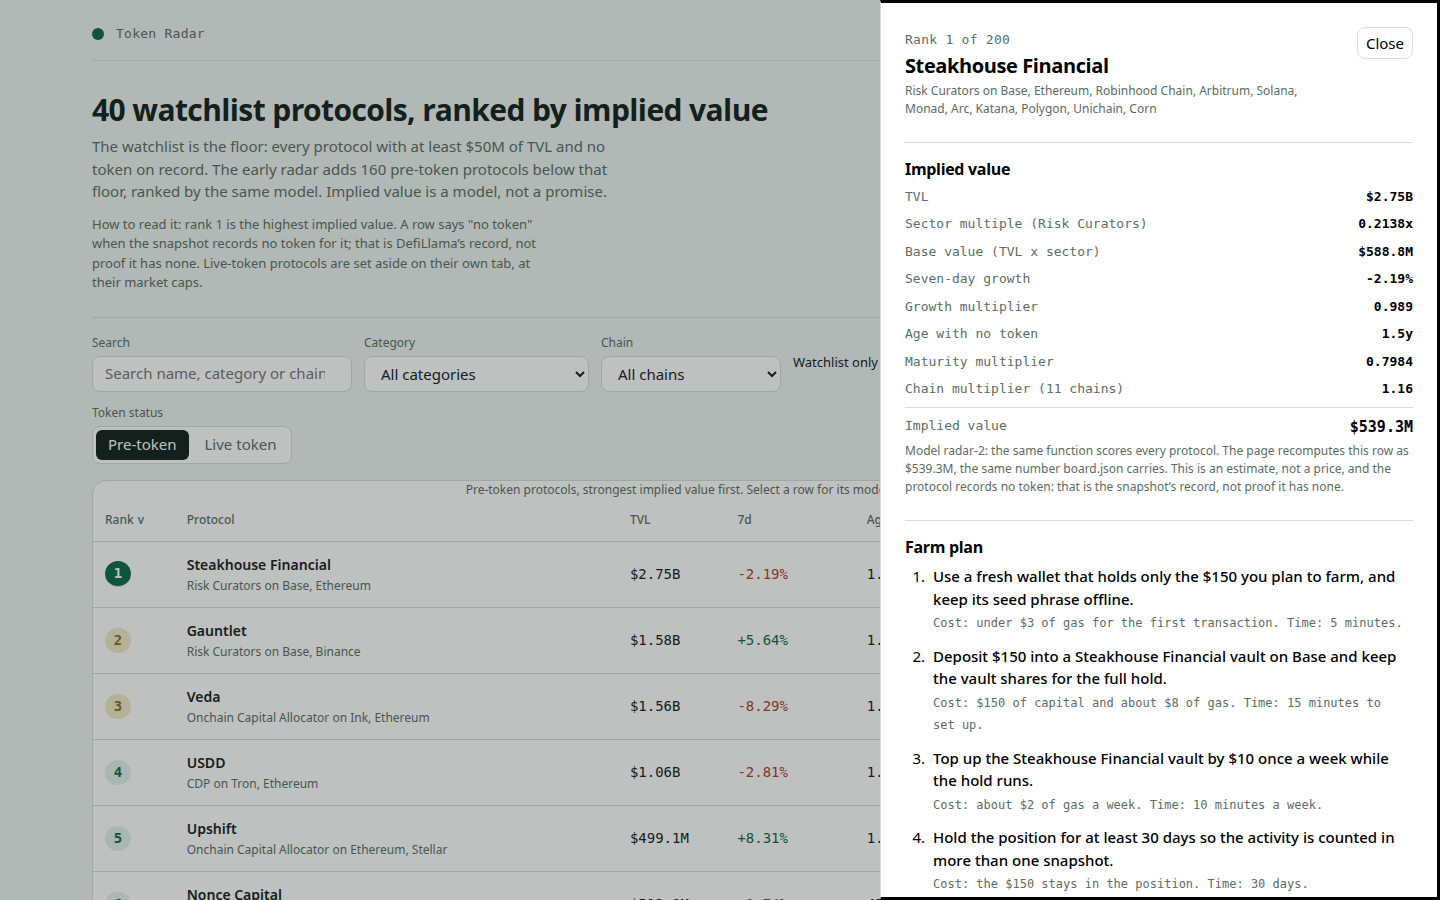
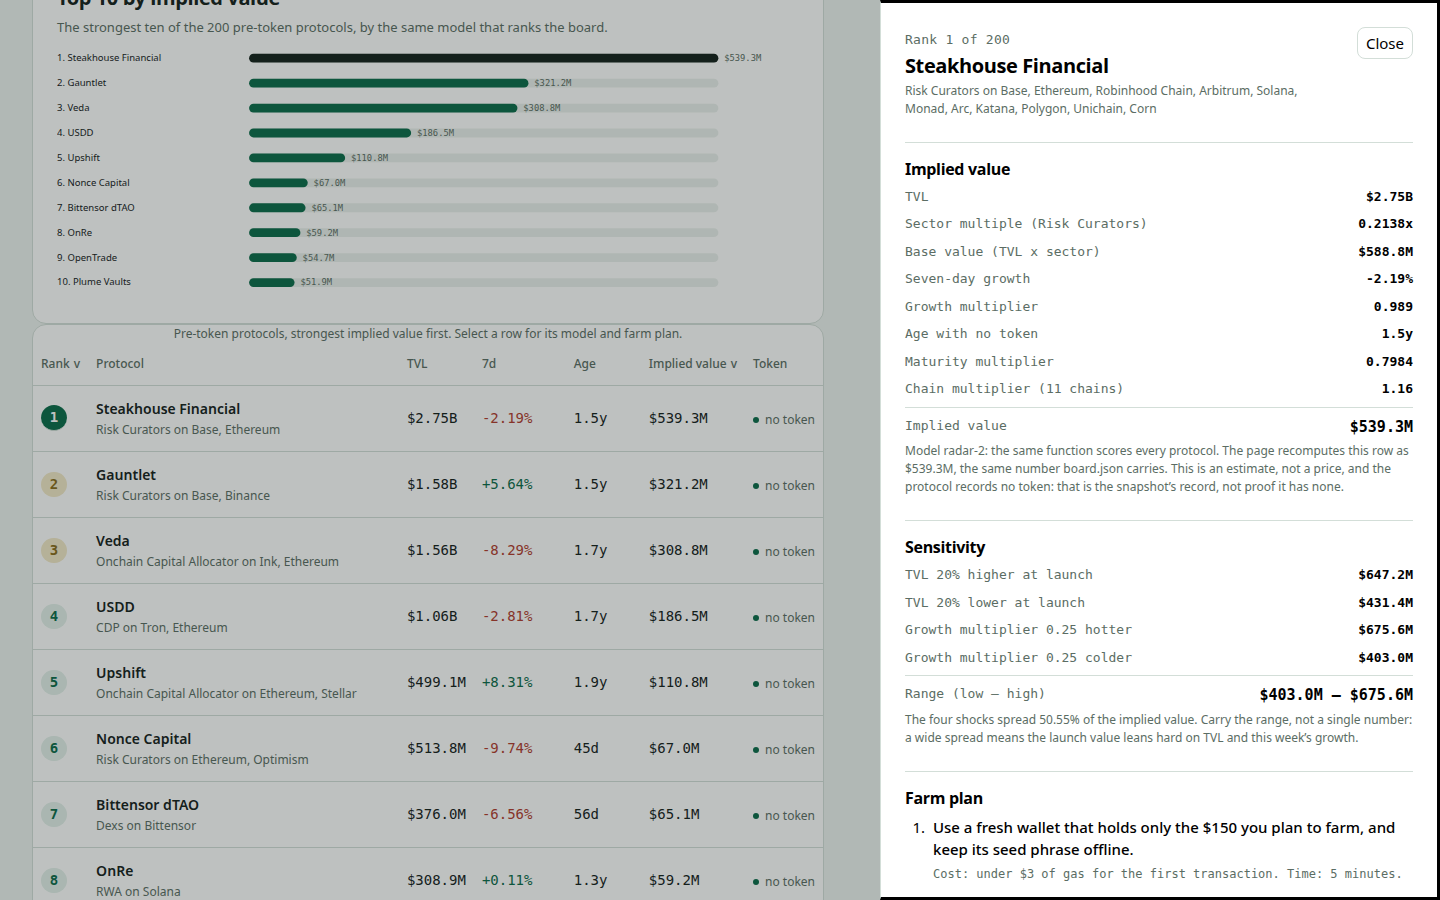
fix: watchlist checkbox, sensitivity in dashboard, top-10 chart + drawer layout
- Checkbox 'Watchlist only' no longer stretched by the text-input sizing
  rule (was 260x36px, detached from its label); now a 16px box beside it.
- data.js now carries each row's launchSensitivity (was board.json-only);
  the detail drawer shows a Sensitivity section: TVL +/-20% and growth
  +/-0.25 shocks plus the low-high range and spread.
- Top-10 by implied value as a hand-built inline SVG chart (no library,
  no network) between the filters and the table.
- While the detail drawer is open on wide screens the page shifts left
  by the drawer's width and the table compacts (decorative bars hide,
  cells tighten) so no column is covered; Close and Esc still close it.
- No model change: all 200 implied values, ranks and sensitivity figures
  byte-identical to the submitted board; generator output deterministic
  across runs; 0 console errors; screenshots re-rendered at 1440x900.

diff --git a/dashboard/app.js b/dashboard/app.js
@@ -1,7 +1,8 @@
 // Token Radar's dashboard, radar-2. It reads window.RADAR (written beside dashboard/ by
-// main.ts) and renders the ranked board, a filterable table, a per-protocol detail drawer with
-// the model's own inputs and the protocol's farm plan, and the sector benchmarks the model was
-// priced from. No network: every byte it shows is in data.js, and it fetches nothing.
+// main.ts) and renders the ranked board, a top-10 chart, a filterable table, a per-protocol
+// detail drawer with the model's own inputs, its launch-value sensitivity and the protocol's
+// farm plan, and the sector benchmarks the model was priced from. No network: every byte it
+// shows is in data.js, and it fetches nothing.
 (function () {
   'use strict';
 
@@ -243,6 +244,37 @@
     );
   }
 
+  // The top-10 chart: one inline SVG, built by hand from the board's own top ten by implied
+  // value. No library, no network. Names are escaped before they enter the markup.
+  function esc(s) {
+    return String(s).replace(/&/g, '&amp;').replace(/</g, '&lt;').replace(/>/g, '&gt;').replace(/"/g, '&quot;');
+  }
+  function topChart() {
+    var top = DATA.rows.slice(0, 10);
+    if (top.length === 0) return null;
+    var max = top[0].implied_value_usd || 1;
+    var barX = 262, barMax = 640, rowH = 34, padTop = 6;
+    var width = barX + barMax + 110;
+    var height = padTop + top.length * rowH;
+    var parts = ['<svg viewBox="0 0 ' + width + ' ' + height + '" role="img" aria-label="Top 10 protocols by implied value">'];
+    top.forEach(function (r) {
+      var i = r.rank - 1;
+      var y = padTop + i * rowH;
+      var w = Math.max(4, Math.round((r.implied_value_usd / max) * barMax));
+      var name = r.name.length > 30 ? r.name.slice(0, 29) + '…' : r.name;
+      parts.push('<text x="0" y="' + (y + 16) + '">' + r.rank + '. ' + esc(name) + '</text>');
+      parts.push('<rect class="track" x="' + barX + '" y="' + (y + 6) + '" width="' + barMax + '" height="12" rx="6"/>');
+      parts.push('<rect class="chart-bar' + (r.rank === 1 ? ' first' : '') + '" x="' + barX + '" y="' + (y + 6) + '" width="' + w + '" height="12" rx="6"/>');
+      parts.push('<text class="num" x="' + (barX + w + 8) + '" y="' + (y + 16) + '">' + fmtUsd(r.implied_value_usd) + '</text>');
+    });
+    parts.push('</svg>');
+    return el('section', { class: 'panel chart' },
+      el('h2', { text: 'Top 10 by implied value' }),
+      el('p', { text: 'The strongest ten of the ' + DATA.board_size + ' pre-token protocols, by the same model that ranks the board.' }),
+      el('div', { html: parts.join('') })
+    );
+  }
+
   function sortHeader(key, label) {
     return el('th', { scope: 'col' },
       el('button', { type: 'button', onclick: function () { if (state.sort === key) state.dir = -state.dir; else { state.sort = key; state.dir = -1; } render(); } },
@@ -366,7 +398,9 @@
   }
 
   var dialog = el('dialog', { class: 'detail', id: 'detail', 'aria-labelledby': 'detail-title' });
-  dialog.addEventListener('close', function () { state.selected = null; writeHash(); });
+  // The drawer shifts the page left while it is open (see app.css: body.detail-open),
+  // so it never covers the table; the class comes off the moment the drawer closes.
+  dialog.addEventListener('close', function () { state.selected = null; document.body.classList.remove('detail-open'); writeHash(); });
 
   function openDetail(slug) {
     var row = DATA.rows.filter(function (r) { return r.slug === slug; })[0];
@@ -399,6 +433,26 @@
       ),
       el('p', { class: 'sub', text: 'Model ' + DATA.model_version + ': the same function scores every protocol. The page recomputes this row as ' + fmtUsd(impliedOf(row, DATA.model)) + (impliedOf(row, DATA.model) === row.implied_value_usd ? ', the same number board.json carries.' : ', which differs from the board: the data would be stale.') + ' This is an estimate, not a price, and the protocol records no token: that is the snapshot\u2019s record, not proof it has none.' })
     ));
+    // Sensitivity: the implied value under a TVL shock of 20% either way and a growth-
+    // multiplier shock of 0.25 either way, sector, maturity and chain multipliers held.
+    // A wide range means the launch value is fragile; a narrow one means it barely moves.
+    // Guarded: a data.js written before sensitivity existed simply shows no section.
+    if (row.sensitivity) {
+      var s = row.sensitivity;
+      var low = Math.min(s.tvlShockUp, s.tvlShockDown, s.growthShockUp, s.growthShockDown);
+      var high = Math.max(s.tvlShockUp, s.tvlShockDown, s.growthShockUp, s.growthShockDown);
+      dialog.appendChild(el('section', { class: 'detail-section' },
+        el('h3', { text: 'Sensitivity' }),
+        el('div', { class: 'equation' },
+          el('div', null, el('span', { text: 'TVL 20% higher at launch' }), el('b', { class: 'num', text: fmtUsd(s.tvlShockUp) })),
+          el('div', null, el('span', { text: 'TVL 20% lower at launch' }), el('b', { class: 'num', text: fmtUsd(s.tvlShockDown) })),
+          el('div', null, el('span', { text: 'Growth multiplier 0.25 hotter' }), el('b', { class: 'num', text: fmtUsd(s.growthShockUp) })),
+          el('div', null, el('span', { text: 'Growth multiplier 0.25 colder' }), el('b', { class: 'num', text: fmtUsd(s.growthShockDown) })),
+          el('div', { class: 'total' }, el('span', { text: 'Range (low – high)' }), el('b', { class: 'num', text: fmtUsd(low) + ' – ' + fmtUsd(high) }))
+        ),
+        el('p', { class: 'sub', text: 'The four shocks spread ' + s.sensitivitySpreadPct.toFixed(2) + '% of the implied value. Carry the range, not a single number: a wide spread means the launch value leans hard on TVL and this week\u2019s growth.' })
+      ));
+    }
     dialog.appendChild(el('section', { class: 'detail-section' },
       el('h3', { text: 'Farm plan' }),
       el('ol', { class: 'steps' }, steps.map(function (s) {
@@ -413,6 +467,7 @@
     } else {
       dialog.setAttribute('open', '');
     }
+    document.body.classList.add('detail-open');
   }
 
   function render() {
@@ -421,6 +476,7 @@
     shell.appendChild(header());
     shell.appendChild(lede());
     shell.appendChild(controls());
+    if (state.tab === 'pre-token') shell.appendChild(topChart());
     shell.appendChild(state.tab === 'pre-token' ? boardTable() : liveTable());
     if (state.tab === 'pre-token') shell.appendChild(modelPanel());
     app.appendChild(shell);

diff --git a/dashboard/app.css b/dashboard/app.css
@@ -69,11 +69,17 @@ a { color: var(--accent); }
 .controls { display: flex; flex-wrap: wrap; align-items: end; gap: var(--step-3); padding: var(--step-4) 0; border-top: 1px solid var(--border); }
 .field { display: grid; gap: var(--step-1); }
 .field label { color: var(--muted); font-size: 12px; }
-.field input, .field select {
+.field input[type="search"], .field select {
   min-height: 36px; padding: 0 var(--step-3); border: 1px solid var(--border); border-radius: var(--radius-control);
   background: var(--surface); min-width: 180px;
 }
-.field input { min-width: 260px; }
+.field input[type="search"] { min-width: 260px; }
+/* The watchlist checkbox is a control of its own size: the text-input sizing above
+   must never stretch it into a wide empty box detached from its label. */
+.field input[type="checkbox"] {
+  width: 16px; height: 16px; min-width: 0; min-height: 0; padding: 0;
+  flex: none; margin: 0; accent-color: var(--accent);
+}
 .field.check { align-content: end; padding-bottom: 8px; }
 .field.check label { display: flex; align-items: center; gap: 6px; color: var(--ink); font-size: 13px; }
 .tabs { display: flex; gap: var(--step-1); padding: 3px; border: 1px solid var(--border); border-radius: var(--radius-control); background: var(--surface); }
@@ -100,14 +106,40 @@ tbody tr[data-selected="true"] { background: var(--accent-soft); }
 .rank-badge { display: inline-block; min-width: 26px; text-align: center; padding: 2px 6px; border-radius: 999px; background: var(--accent-soft); color: var(--accent); font-weight: 600; }
 .rank-badge.top { background: var(--accent); color: var(--surface); }
 .rank-badge.top3 { background: #f3e9c8; color: var(--gold); }
-.bar { width: 120px; height: 6px; border-radius: 3px; background: var(--border); overflow: hidden; }
-.bar i { display: block; height: 100%; background: var(--accent); }
+/* The table's implied-value bar: scoped under .implied so it never restyles an SVG rect
+   that happens to share the name. */
+.implied .bar { width: 120px; height: 6px; border-radius: 3px; background: var(--border); overflow: hidden; }
+.implied .bar i { display: block; height: 100%; background: var(--accent); }
 .implied { display: flex; align-items: center; gap: var(--step-2); }
 .status { display: inline-flex; align-items: center; gap: 6px; color: var(--muted); font-size: 12px; white-space: nowrap; }
 .status::before { content: ""; width: 6px; height: 6px; border-radius: 50%; background: var(--accent); }
 .status.live::before { background: var(--gold); }
 
 .model { margin-top: var(--step-4); padding: var(--step-5); display: grid; gap: var(--step-3); }
+
+/* Top-10 chart: a hand-built SVG, no library and no network. The panel sits between the
+   filters and the table; its bars are the board's own top ten by implied value. */
+.chart { margin-top: var(--step-4); padding: var(--step-5); display: grid; gap: var(--step-2); }
+.chart p { color: var(--muted); font-size: 13px; }
+.chart svg { display: block; width: 100%; height: auto; }
+.chart text { font-family: var(--font-body); font-size: 13px; fill: var(--ink); }
+.chart text.num { font-family: var(--font-num); font-size: 12px; fill: var(--muted); }
+.chart .chart-bar { fill: var(--accent); }
+.chart .chart-bar.first { fill: var(--ink); }
+.chart .track { fill: var(--border); opacity: 0.45; }
+
+/* When the detail drawer is open on a wide screen, the page shifts left by the drawer's
+   width so the drawer never covers the table: the header text stays whole instead of
+   being cut off mid-word. On narrow screens the drawer overlays, as before. */
+@media (min-width: 1100px) {
+  body.detail-open .shell { margin-right: 584px; }
+}
+/* Beside an open drawer the table is short of room, so it compacts: its decorative bars
+   hide (the value stays) and the cells tighten, and all seven columns fit. */
+@media (min-width: 1100px) and (max-width: 1650px) {
+  body.detail-open .implied .bar { display: none; }
+  body.detail-open th, body.detail-open td { padding-left: 8px; padding-right: 8px; }
+}
 .formula { font-family: var(--font-num); font-size: 13px; line-height: 1.7; color: var(--muted); overflow-wrap: anywhere; background: var(--canvas); border-radius: var(--radius-control); padding: var(--step-3) var(--step-4); }
 .bench { width: 100%; font-size: 13px; }
 .bench th, .bench td { padding: 6px var(--step-3); }

diff --git a/lib/model.ts b/lib/model.ts
@@ -147,6 +147,7 @@ export interface RadarRow {
   listed_at: string | null;
   age_days: number | null;
   implied_value_usd: number;
+  sensitivity: LaunchSensitivity;
   sector_multiple: number;
   growth_multiplier: number;
   maturity_multiplier: number;
@@ -616,6 +617,7 @@ export function radarRow(row: BoardRow): RadarRow {
     listed_at: row.listed_at,
     age_days: row.age_days,
     implied_value_usd: row.implied_value_usd,
+    sensitivity: row.sensitivity,
     sector_multiple: row.model.sector_multiple,
     growth_multiplier: row.model.growth_multiplier,
     maturity_multiplier: row.model.maturity_multiplier,
